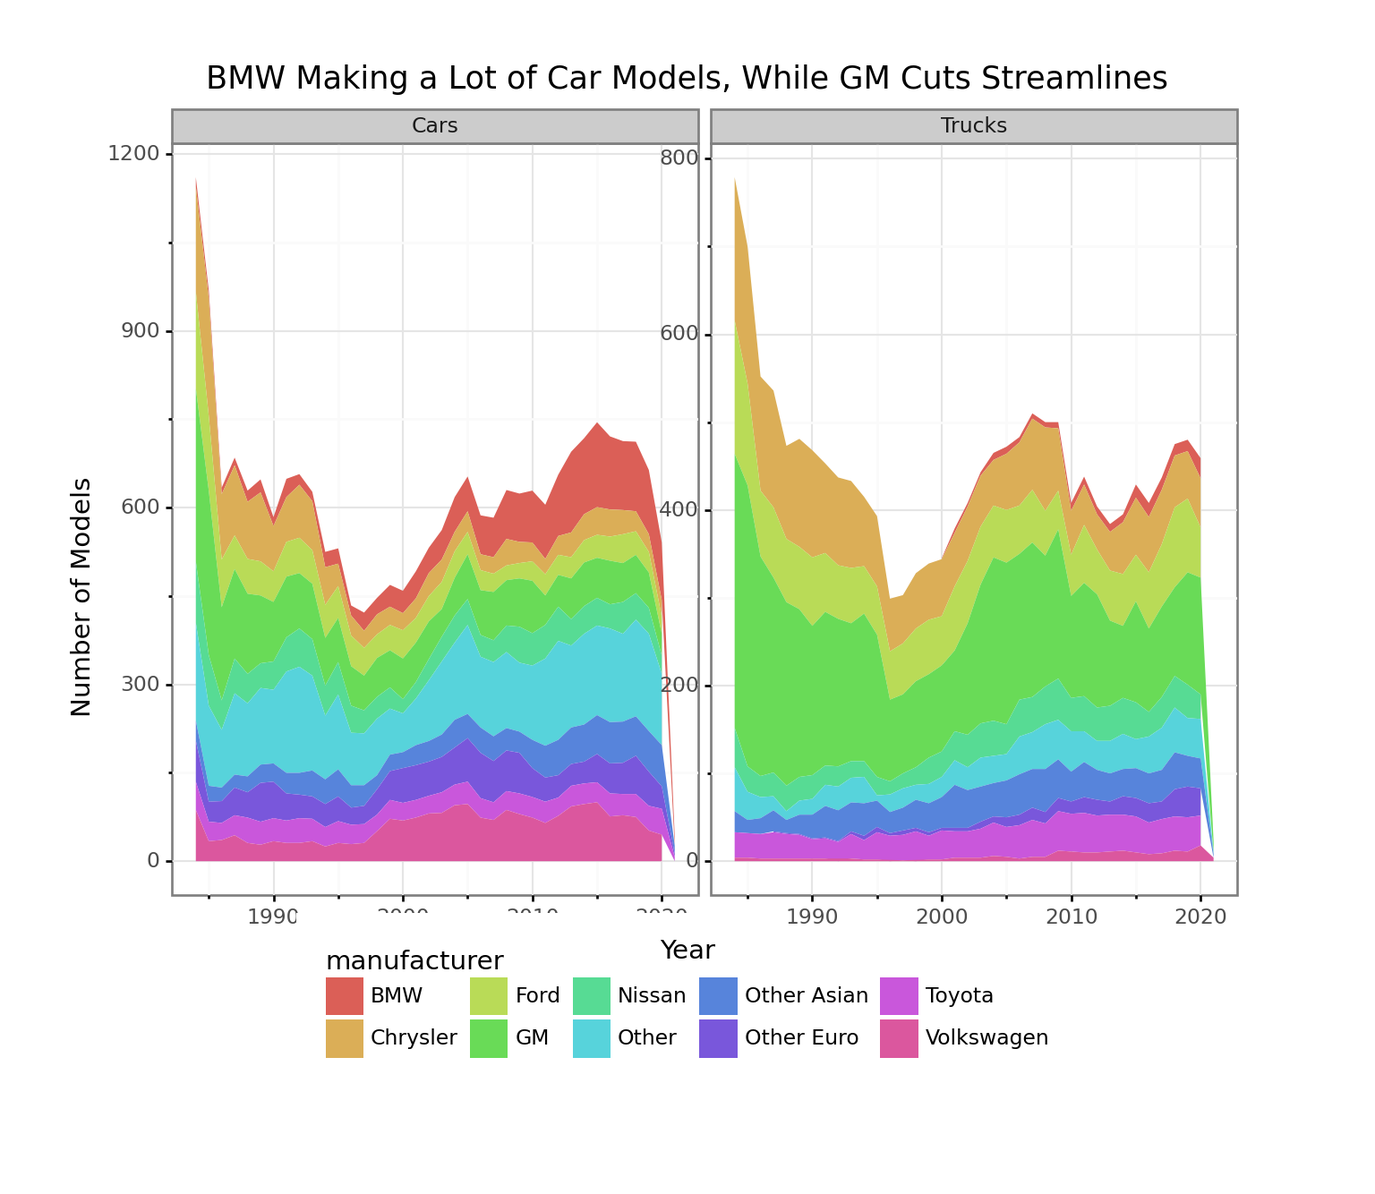
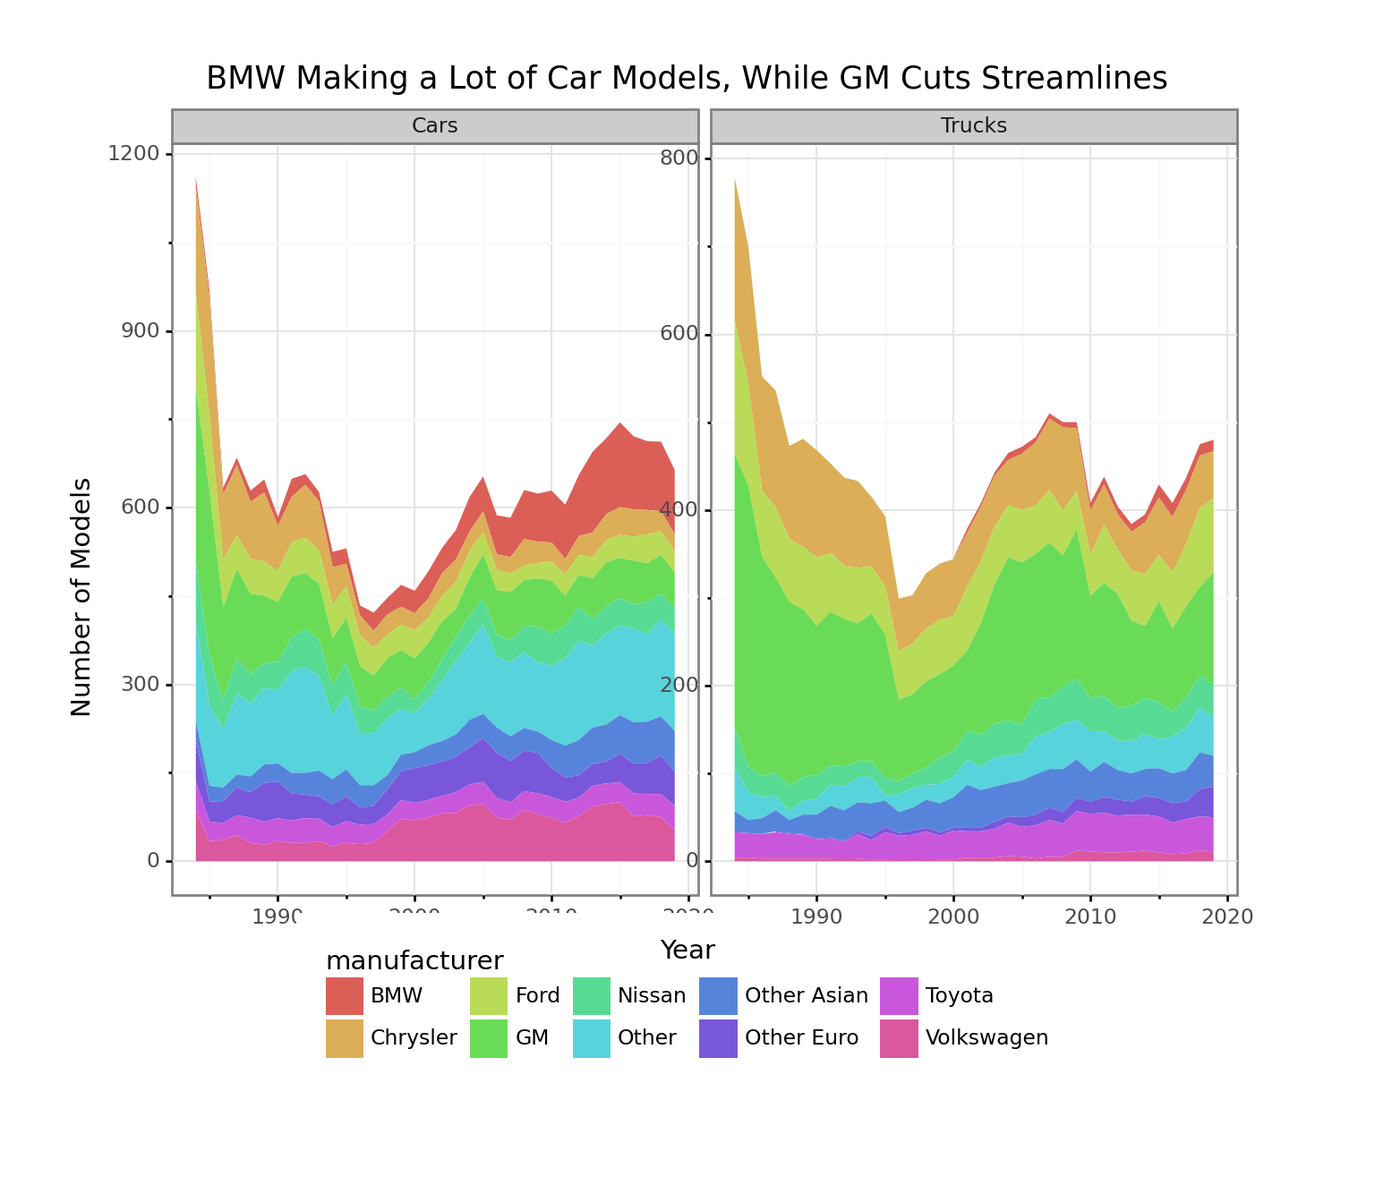
edits

diff --git a/content/post/2020-05-12-exploring-big-mt-cars-with-python-datatable-and-plotnine-part-2.html b/content/post/2020-05-12-exploring-big-mt-cars-with-python-datatable-and-plotnine-part-2.html
@@ -6,8 +6,7 @@ slug: exploring-big-mt-cars-with-python-datatable-and-plotnine-part-2
 categories: ["R", "Code-Oriented"]
 tags: ["data.table", "datatable", "plotnine", "reticulate"]
 output:
-  html_document:
-    code_folding: 'hide'
+  blogdown::html_page
 ---
 
 
@@ -81,22 +80,23 @@ def collapse_make(make):
 vclass = big_mt[:, VClass].to_list()[0]
 big_mt[:, &#39;vehicle_type&#39;] = dt.Frame([&#39;Cars&#39; if re.findall(&#39;Car&#39;, item) else &#39;Trucks&#39; for item in vclass]).to_numpy()
 
-
 # Consolidate make under parents
 #manufacturers = [tup[0] for tup in big_mt[:, &#39;make&#39;].to_tuples()]
 big_mt[:,&#39;manufacturer&#39;] = Frame([collapse_make(line[0]) for line in big_mt[:, &#39;make&#39;].to_tuples()])
 
+# Assign expressions to new variables
 vehicle_type, manufacturer = big_mt[:, (&#39;vehicle_type&#39;, &#39;manufacturer&#39;)].export_names()</code></pre>
 </div>
 <div id="imports-started-ahead-and-improved-efficency-more" class="section level1">
 <h1>Imports Started Ahead and Improved Efficency More</h1>
 <p>Here, we selected the largest volume brands in two steps, first creating an numpy vector of makes which sold more than 1500 separate models over the full period, and then creating an expression to filter for the most popular. Then, we iterated over our vector and classified vehicles as ‘Cars’ or ‘Trucks’ based on regex matches to build a new <code>vehicle_type</code> variable. We would love to know streamlined way to accomplish these operations, because they would surely be easier for us using <code>data.table</code>. Excluding EV’s, we found the combined mean mpg by <code>year</code> and <code>make</code> for both cars and trucks. It could be that we are missing something, but it also feels more verbose than it would have been in <code>data.table</code>, where we probably could have nested the filtering expressions within the frames, but again this could be our weakness in Python.</p>
 <p>Our <code>plotnine</code> code and graph looks very similar to one generated from <code>ggplot</code>, but we struggled with sizing the plot on the page and avoiding cutting off axis and legend labels. We tried to put the legend on the right, but the labels were partially cut off unless we squeezed the charts too much. When we put it at the bottom with horizontal labels, the x-axis for the ‘Cars’ facet was still partially blocked by the legend title. We couldn’t find much written on how to make the charts bigger or to change the aspect ratio or figure size parameters. We remember these struggles while learning <code>ggplot</code>, but it felt like we could figure it out more quickly.</p>
+<p>It is also important to mention that confidence intervals are not implemented yet for lowess smoothing in <code>plotnine</code>. This probably isn’t such a big deal for our purposes in this graph where there are a large number of models, but it does detract from Figure <a href="#fig:ev-vs-gas-powered"><strong>??</strong></a> below, where it the uncertainty about the true mean efficiency of cars with batteries in the early years is high because there were so few models.</p>
 <pre class="python"><code># Filter for brands with most models over full period
 most_popular_vector = big_mt[:, count(), by(manufacturer)][(f.count &gt; 1500), &#39;manufacturer&#39;].to_numpy()
-
 most_popular = np.isin(big_mt[:, manufacturer], most_popular_vector)
 
+# Create data set for charts
 data = big_mt[ most_popular, :] \
              [ (is_ev == 0), :] \
              [:, { &#39;mean_combined&#39; : mean(comb08),
@@ -105,6 +105,7 @@ data = big_mt[ most_popular, :] \
                          manufacturer,
                          vehicle_type)]
 
+# Smoothed line chart of efficiency by manufacturer
 (p9.ggplot(data.to_pandas(),
           p9.aes(x = &#39;year&#39;, 
                  y= &#39;mean_combined&#39;, 
@@ -127,15 +128,16 @@ data = big_mt[ most_popular, :] \
             legend_position=&#39;bottom&#39;,
             legend_direction=&#39;horizontal&#39;) 
 )</code></pre>
-<pre><code>## &lt;ggplot: (313811909)&gt;
+<pre><code>## &lt;ggplot: (304774604)&gt;
 ## 
 ## /Users/davidlucey/Library/r-miniconda/envs/r-reticulate/lib/python3.6/site-packages/plotnine/stats/smoothers.py:168: PlotnineWarning: Confidence intervals are not yet implementedfor lowess smoothings.
 ##   &quot;for lowess smoothings.&quot;, PlotnineWarning)</code></pre>
 <p><img src="/post/2020-05-12-exploring-big-mt-cars-with-python-datatable-and-plotnine-part-2_files/figure-html/mpg-top-manufacturers-1.png" width="100%" /></p>
-<p>One thing to note is that it is difficult to tell which line maps to which Make just by the colors. The original plan was to pipe this into <code>plotly</code> as we would do in R, but this functionality is not available. While the <code>plotnine</code> functionality is pretty close to <code>ggplot</code>, the lack of support of <code>plotly</code> is a pretty serious shortcoming.</p>
+<p>One thing to note is that it is difficult to tell which line maps to which <code>make</code> just by the colors. The original plan was to pipe this into <code>plotly</code> as we would do in R, but this functionality is not available. While the <code>plotnine</code> functionality is pretty close to <code>ggplot</code>, the lack of support of <code>plotly</code> is a pretty serious shortcoming.</p>
 <p>From what we can see in the chart, we can see that “Other Asian” started out well in the beginning of the period, and made remarkable progress leaving Toyota behind as the leader in cars and trucks. Our family has driven Highlanders over the last 20 years, and seen the size of that model go from moderate to large, so it is not surprising to see Toyota trucks going from 2nd most to 2nd least efficient. BMW made the most progress of all producers in cars, and also made gains since introducing trucks in 2000. As a general comment, relative efficiency seems more dispersed and stable for cars than for trucks.</p>
 <pre class="python"><code>
-(p9.ggplot(data.to_pandas(),
+# Stacked line of number of models per manufacturer
+(p9.ggplot(data[year &lt; 2020, :].to_pandas(),
           p9.aes(x = &#39;year&#39;, 
                  y= &#39;num_models&#39;, 
                  fill = &#39;manufacturer&#39;)) + 
@@ -157,22 +159,24 @@ data = big_mt[ most_popular, :] \
             legend_position=&#39;bottom&#39;,
             legend_direction=&#39;horizontal&#39;) 
 )</code></pre>
-<pre><code>## &lt;ggplot: (-9223372036540943493)&gt;</code></pre>
+<pre><code>## &lt;ggplot: (-9223372036549958677)&gt;</code></pre>
 <p><img src="/post/2020-05-12-exploring-big-mt-cars-with-python-datatable-and-plotnine-part-2_files/figure-html/models-by-manufacturer-1.png" width="100%" /></p>
-<p>When we look number of models by Manufacturer above, we were surprised to see that there are so many more truck models than cars for most producers (note that the scale of the y-axis is not the same for the two graphs in this case). In addition to becoming much more fuel efficient, BMW has increased the number of models to an astonishing degree over the period, even while most other European imports have started to tail off (except Mercedes). We would be interested to know the story behind such a big move by a still niche US player. GM has trimmed its offering sharply across cars and trucks. It is important to remember that these numbers are not vehicles sold, just models introduced in a given year.</p>
+<p>When we look number of models by Manufacturer , we can see that the number of models declined steadily from 1984 though the late 1990s, but has been rising since. Although the number of truck models appear to be competitive with cars, note that the graphs have different scales so there are about 2/3 as many in most years. In addition to becoming much more fuel efficient, BMW has increased the number of models to an astonishing degree over the period, even while most other European imports have started to tail off (except Mercedes). We would be interested to know the story behind such a big move by a still niche US player. GM had a very large number of car and truck models at the beginning of the period, but now has a much more streamlined range. It is important to remember that these numbers are not vehicles sold or market share, just models tested for fuel efficiency in a given year.</p>
 </div>
 <div id="electric-vehicles-unsurprisingly-get-drastically-better-mileage" class="section level1">
 <h1>Electric Vehicles Unsurprisingly Get Drastically Better Mileage</h1>
-<p>After the chart of efficiency by manufacturer, we had a double-take when we saw the chart below. While progress for gas-powered vehicles looked respectable above, in the context of cars with batteries, gas-only vehicles are about half as efficient on average. Though the mean improved, the mileage of the most efficient gas powered vehicle in any given year steadily lost ground over the period.</p>
+<p>After the looking at the efficiency by manufacturer in Figure <a href="#fig:mpg-top-manufacturers"><strong>??</strong></a> above, we had a double-take when we saw the chart Figure <a href="#fig:ev-vs-gas-powered"><strong>??</strong></a> below. While progress for gas-powered vehicles looked respectable above, in the context of cars with batteries, gas-only vehicles are about half as efficient on average. Though the mean improved, the mileage of the most efficient gas powered vehicle in any given year steadily lost ground over the period.</p>
 <p>Meanwhile, vehicles with batteries are not really comparable because plug-in vehicles don’t use any gas. The EPA imputes energy equivalence for those vehicles. The EPA website explains in <a href="https://www.fueleconomy.gov/feg/label/learn-more-electric-label.shtml">Electric Vehicles: Learn More About the Label</a> that a calculation of equivalent electricity to travel 100 miles for plug-in vehicles. This seems like a crude comparison as electricity prices vary around the country. Still, the most efficient battery-powered car (recently a Tesla) improved to an incredible degree.</p>
 <p>Around 2000, there were only a handful of battery-powered cars so the error bars would be wide if included, and we are counting all cars with any battery as one category when there are hybrids and plug-ins. In any case, caution should be used in interpreting the trend, but there was a period where the average actually declined, and really hasn’t improved over 20-years with the most efficient.</p>
-<pre class="python"><code>data = big_mt[ (vehicle_type == &quot;Cars&quot;), :][:,
+<pre class="python"><code># Prepare data for charting by gas and battery-powered
+data = big_mt[ (vehicle_type == &quot;Cars&quot;), :][:,
                 { &quot;maximum&quot;: dt.max(comb08),
                   &quot;mean&quot; : dt.mean(comb08),
                   &quot;minimum&quot;: dt.min(comb08),
                   &quot;num_models&quot; : dt.count() },
                     by(year, is_ev)]
 
+# Reshape 
 data = data.to_pandas().melt(
                   id_vars=[&quot;year&quot;, 
                            &quot;is_ev&quot;,
@@ -183,6 +187,7 @@ data = data.to_pandas().melt(
                   var_name = &quot;Description&quot;,
                   value_name = &quot;MPG&quot;)
 
+# Facet plot smoothed line for gas and battery-powered
 (p9.ggplot(
     data, 
     p9.aes(&#39;year&#39;, 
@@ -203,21 +208,23 @@ data = data.to_pandas().melt(
       legend_position=&#39;right&#39;,
       legend_direction=&#39;vertical&#39;)
 )</code></pre>
-<pre><code>## &lt;ggplot: (322688632)&gt;
+<pre><code>## &lt;ggplot: (-9223372036549982334)&gt;
 ## 
 ## /Users/davidlucey/Library/r-miniconda/envs/r-reticulate/lib/python3.6/site-packages/plotnine/stats/smoothers.py:168: PlotnineWarning: Confidence intervals are not yet implementedfor lowess smoothings.
 ##   &quot;for lowess smoothings.&quot;, PlotnineWarning)</code></pre>
-<p><img src="/post/2020-05-12-exploring-big-mt-cars-with-python-datatable-and-plotnine-part-2_files/figure-html/unnamed-chunk-1-1.png" width="100%" /></p>
+<p><img src="/post/2020-05-12-exploring-big-mt-cars-with-python-datatable-and-plotnine-part-2_files/figure-html/ev-vs-gas-powered-1.png" width="100%" /></p>
 </div>
 <div id="efficiency-of-most-vehicle-types-started-improving-in-2005" class="section level1">
 <h1>Efficiency of Most Vehicle Types Started Improving in 2005</h1>
-<p>We were surprised to see the fuel efficiency of mid-sized overtake even small cars as the most efficient around 2012. Small pickups and SUV’s also made a lot of progress as did standard pick-up trucks. Sport Utility Vehicles were left behind by the improvement most categories saw since 2005, while vans steadily lost efficiency over the whole period. As mentioned earlier, we noticed that the same model SUV that we owned got about 20% larger over the period. It seems like most families in our area have at least oneSUV, but they didn’t really exist before 2000.</p>
-<pre class="python"><code>data = big_mt[(is_ev == False), :][:, 
+<p>In Figure We were surprised to see the fuel efficiency of mid-sized overtake even small cars as the most efficient around 2012. Small pickups and SUV’s also made a lot of progress as did standard pick-up trucks. Sport Utility Vehicles were left behind by the improvement most categories saw since 2005, while vans steadily lost efficiency over the whole period. As mentioned earlier, we noticed that the same model SUV that we owned got about 20% larger over the period. It seems like most families in our area have at least oneSUV, but they didn’t really exist before 2000.</p>
+<pre class="python"><code># Prepare data for plotting smoothed line by VClass
+data = big_mt[(is_ev == False), :][:, 
                 {&#39;mean&#39; : dt.mean(comb08),
                  &#39;num_models&#39; : count() },
                     by(year, VClass, is_ev)] \
              [(is_ev == False),:].to_pandas()
 
+# Plot smoothed line of efficiency by VClass
 (p9.ggplot(
     data,
     p9.aes(&#39;year&#39;, 
@@ -237,22 +244,24 @@ data = data.to_pandas().melt(
       legend_position=&#39;right&#39;,
       legend_direction=&#39;vertical&#39;)
 )</code></pre>
-<pre><code>## &lt;ggplot: (-9223372036540424658)&gt;
+<pre><code>## &lt;ggplot: (-9223372036550008120)&gt;
 ## 
 ## /Users/davidlucey/Library/r-miniconda/envs/r-reticulate/lib/python3.6/site-packages/plotnine/stats/smoothers.py:168: PlotnineWarning: Confidence intervals are not yet implementedfor lowess smoothings.
 ##   &quot;for lowess smoothings.&quot;, PlotnineWarning)</code></pre>
-<p><img src="/post/2020-05-12-exploring-big-mt-cars-with-python-datatable-and-plotnine-part-2_files/figure-html/unnamed-chunk-2-1.png" width="100%" /></p>
+<p><img src="/post/2020-05-12-exploring-big-mt-cars-with-python-datatable-and-plotnine-part-2_files/figure-html/unnamed-chunk-1-1.png" width="100%" /></p>
 </div>
 <div id="efficiency-by-fuel-type" class="section level1">
 <h1>Efficiency by Fuel Type</h1>
 <p>We can see that fuel efficiency of electric vehicles almost doubled over the period, while we didn’t see the average efficiency of vehicles with batteries make the same improvement. We generated our <code>is_ev</code> battery if the car had a battery, but didn’t specify if it was plug-in or hybrid, so this discrepancy may have something to do with this. We can also see efficiency of diesel vehicles comes down sharply during the 2000s. We know that Dieselgate broke in 2015 for vehicles sold from 2009, so it is interesting to see the decline in listed efficiency started prior to that period. Natural gas vehicles seem to have been eliminated five years ago, which is surprising with the natural gas boom.</p>
-<pre class="python"><code>data = big_mt[: , 
+<pre class="python"><code># Prepare data for plotting by fuelType1
+data = big_mt[: , 
               { &#39;maximum&#39;: dt.max(comb08), 
                 &#39;minimum&#39;: dt.min(comb08), 
                 &#39;num_models&#39; : count(), 
                 &#39;mpg&#39; : dt.mean(comb08) }, 
                   by(year, fuelType1)].to_pandas()
-                  
+
+# Plot smoothed line of efficiency by fuelType1 by VClass              
 (p9.ggplot(data, 
             p9.aes(&#39;year&#39;, 
                    &#39;mpg&#39;, 
@@ -272,23 +281,24 @@ data = data.to_pandas().melt(
               legend_position=&#39;right&#39;,
               legend_direction=&#39;vertical&#39;)
 )              </code></pre>
-<pre><code>## &lt;ggplot: (313940372)&gt;
+<pre><code>## &lt;ggplot: (313719493)&gt;
 ## 
 ## /Users/davidlucey/Library/r-miniconda/envs/r-reticulate/lib/python3.6/site-packages/plotnine/stats/smoothers.py:168: PlotnineWarning: Confidence intervals are not yet implementedfor lowess smoothings.
 ##   &quot;for lowess smoothings.&quot;, PlotnineWarning)</code></pre>
 <p><img src="/post/2020-05-12-exploring-big-mt-cars-with-python-datatable-and-plotnine-part-2_files/figure-html/fuel-type-efficiency-1.png" width="100%" /></p>
-<p>We didn’t realize that there had been such a sharp increase in models requiring premium instead of regular gasoline. Our understanding was that premium gasoline had more to do with the and we can see that vehicles requiring other fuel types remain a small fraction of the market.</p>
-<pre class="python"><code>(p9.ggplot(data, 
+<p>We don’t know if fuelType1 refers to the recommended or required fuel, but didn’t realize that there had been such a sharp increase in premium over the period. Our understanding was that premium gasoline had more to do with the engine performance than gas efficiency. it is notable that despite all the talk about alternative fuels, they can still be used in only a small minority of new models.</p>
+<pre class="python"><code># Plot stacked line of share of fuelType1 by VClass
+(p9.ggplot(data[data[&#39;year&#39;] &lt; 2020],
             p9.aes(&#39;year&#39;, 
                    &#39;num_models&#39;, 
                    fill = &#39;fuelType1&#39;)) + 
             p9.geom_area(position = &#39;stack&#39;) +
             p9.theme_bw() +
             p9.labs(
-                title = &quot;Number of Models Requiring Premium Overtakes Regular&quot;,
+                title = &quot;Number of Cars and Trucks Requiring Premium Overtakes Regular&quot;,
                 y = &#39;Number of Models&#39;,
                 x = &#39;Year&#39;,
-                color = &#39;Fuel Type&#39;) +
+                fill = &#39;Fuel Type&#39;) +
             p9.theme(    
               subplots_adjust={&#39;right&#39;: 0.75},
               figure_size=(10, 4), # inches
@@ -296,10 +306,10 @@ data = data.to_pandas().melt(
               legend_position=&#39;right&#39;,
               legend_direction=&#39;vertical&#39;)
 )</code></pre>
-<pre><code>## &lt;ggplot: (-9223372036530095542)&gt;</code></pre>
+<pre><code>## &lt;ggplot: (-9223372036539092157)&gt;</code></pre>
 <p><img src="/post/2020-05-12-exploring-big-mt-cars-with-python-datatable-and-plotnine-part-2_files/figure-html/number-premium-regular-1.png" width="100%" /></p>
 </div>
 <div id="conclusion" class="section level1">
 <h1>Conclusion</h1>
-<p>We need to be honest that there is a lot of complexity here and a lot more going on than are likely to comprehend in a short exploration. We know there is a regulatory response to the CAFE standards which tightened in 2005, and that at least one significant producer may not have had honest numbers during the period. We also don’t know how many vehicles of each brand was sold, so don’t know producers might jockey to sell more profitable models within the framework. There can be a fine line between a light truck and a car, and the taxation on both can be different. Also, the weight cutoffs for trucks changed in 2008, so most truck categories are not a consistent weight over the whole period. Still,</p>
+<p>There is a lot of complexity in this system and more going on than we are likely to comprehend in a short exploration. We know there is a regulatory response to the CAFE standards which tightened in 2005, and that at least one significant producer may not have had accurate efficiency numbers during the period. The oil price fluctuated widely during the period, but not enough to cause real change in behavior in the same way it did during the 1970s. We also don’t know how many vehicles of each brand were sold, so don’t know how producers might jockey to sell more profitable models within the framework of overall fleet efficiency constraints. There can be a fine line between a light truck and a car, and the taxation differentials importation of cars vs light trucks are significant. Also, the weight cutoffs for trucks changed in 2008, so most truck categories are not a consistent weight over the whole period. That is all for now, but a future post might involve scraping CAFE standards, where there is also long term data available, to see if some of the blanks about volumes and weights could be filled in to support a more meaningful analysis.</p>
 </div>

diff --git a/content/post/2020-05-07-exploring-big-mt-cars-with-python-datatable-and-plotnine.html b/content/post/2020-05-07-exploring-big-mt-cars-with-python-datatable-and-plotnine.html
@@ -434,5 +434,5 @@ skim_tee(py$big_mt_pandas)</code></pre>
 <div id="conclusion" class="section level1">
 <h1>Conclusion</h1>
 <p>It took us a couple of months to get up and running with R <code>data.table</code>, and even with daily usage, we are still learning its nuance a year later. We think the up-front investment in learning the syntax, which can be a little confusing at first, has been worth it. It is also less well documented than <code>dplyr</code> or <code>pandas</code>. We learned so much about <code>data.table</code> from a few blog posts such as <a href="http://brooksandrew.github.io/simpleblog/articles/advanced-data-table/">Advanced tips and tricks with data.table</a> and <a href="https://atrebas.github.io/post/2019-03-03-datatable-dplyr/">A data.table and dplyr tour</a>. The goal of this post is to help to similarly fill the gap for <code>datatable</code>.</p>
-<p>Python <code>datatable</code> is promising, and we are grateful for it as familiar territory as we learn Python. We can’t tell how much of our difficulty has been because the package is not quite mature compared to the mature <code>data.table</code> or our just inexperience with Python. The need to manually set variables for non-standard evaluation, to revert to pandas to accomplish certain tasks (ie: reshaping) or the challenges extracting and filtering data from nested columns. It was still not easy to navigate the documentation and there were areas where the documentation was not Also, it would be appreciated to seamlessly translate between a <code>datatable</code> and <code>data.table</code>. In the next post, we will continue to use Big MT Cars data to try out <code>plotnine</code>, the Python version of <code>ggplot</code>.</p>
+<p>Python <code>datatable</code> is promising, and we are grateful for it as familiar territory as we learn Python. We can’t tell how much of our difficulty has been because the package is not as mature as <code>data.table</code> or our just inexperience with Python. The need to manually set variables for non-standard evaluation, to revert to pandas to accomplish certain tasks (ie: reshaping) or the challenges extracting and filtering data from nested columns. It was still not easy to navigate the documentation and there were areas where the documentation was not Also, it would be appreciated to seamlessly translate between a <code>datatable</code> and <code>data.table</code>. In the <a href="https://redwallanalytics.com/2020/05/12/exploring-big-mt-cars-with-python-datatable-and-plotnine-part-2/">Visualizing Big MT Cars with Python plotnine-Part 2</a> we will continue to use Big MT Cars data to try out <code>plotnine</code>, the Python version of <code>ggplot</code> as an alternative to <code>seaborn</code>.</p>
 </div>
